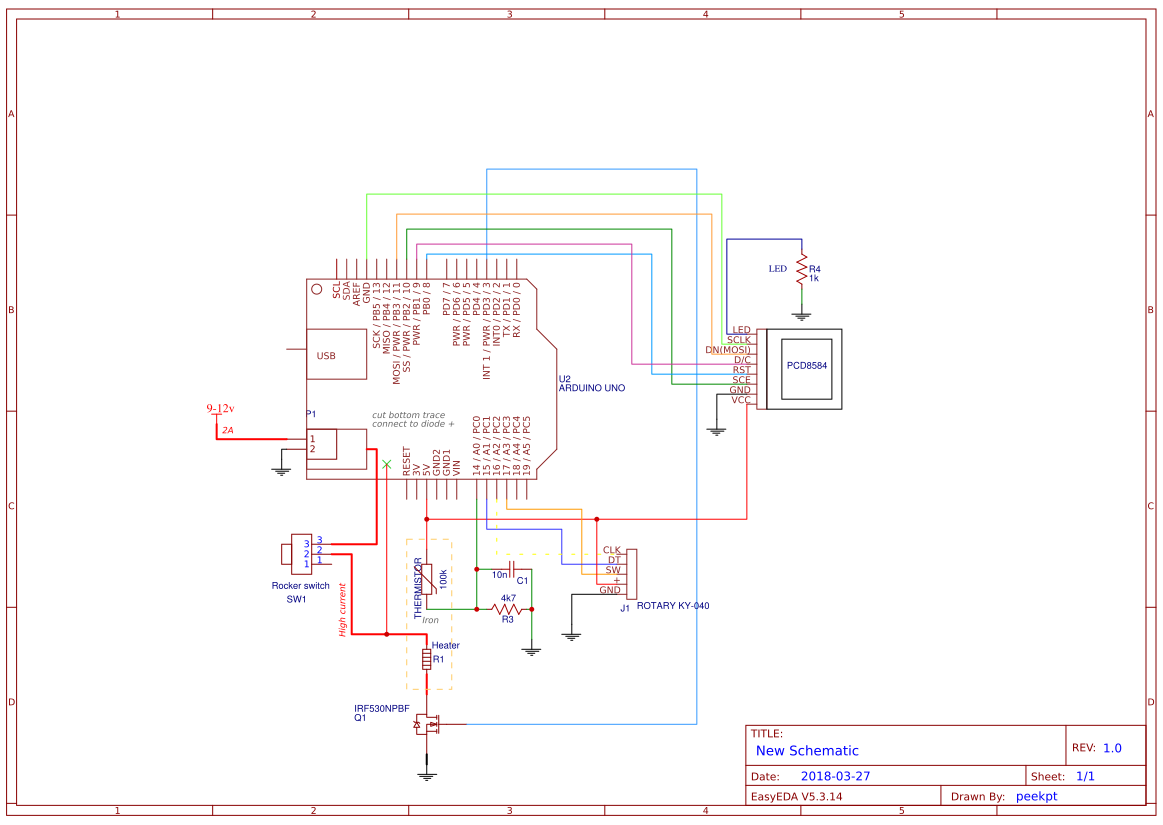
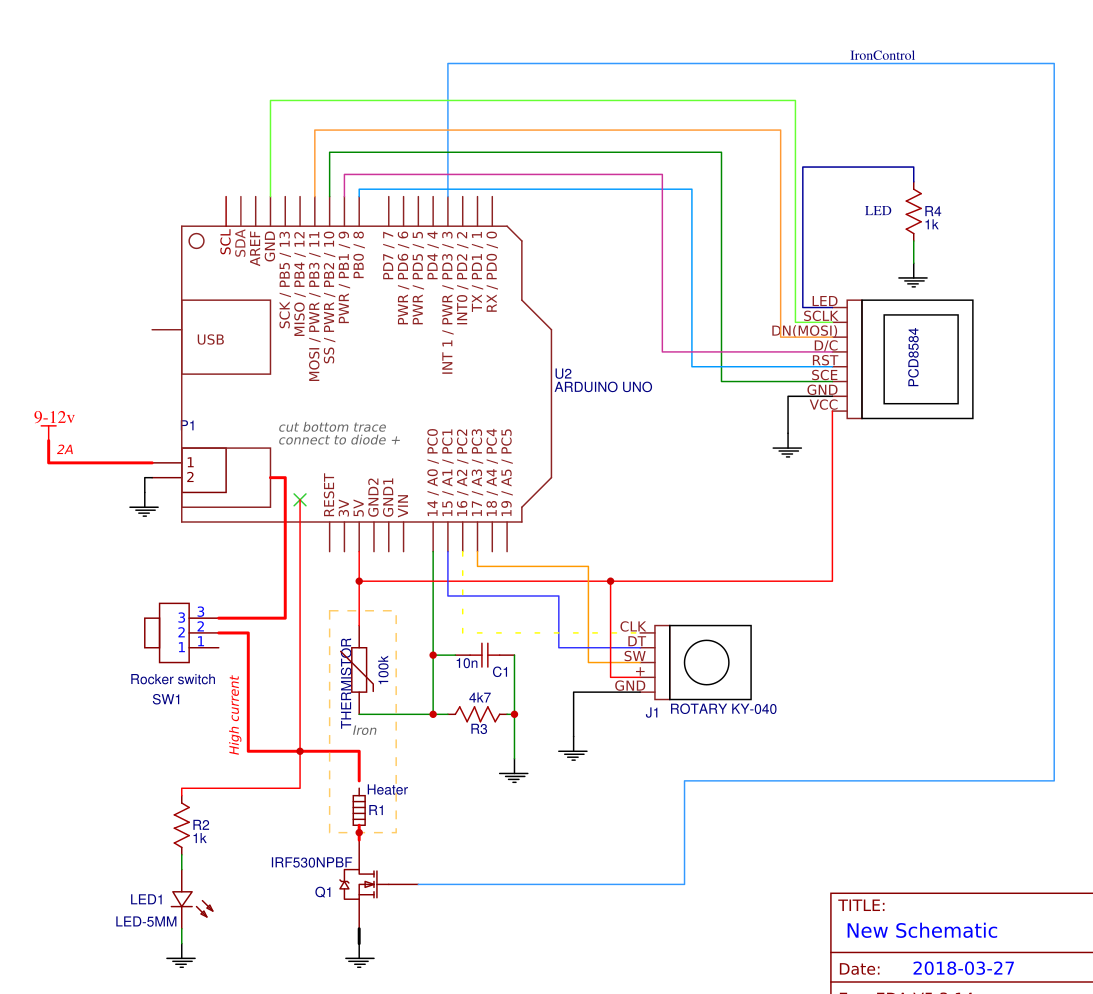
.

diff --git a/README.md b/README.md
@@ -2,6 +2,8 @@
 
 *The cheapest Micro soldering Station ever*
 
+![BOX](https://github.com/peekpt/MicroSolderingStation/blob/master/media/box.png?raw=true)
+
 ##Features
 
 - Cheap & easy build under 10$
@@ -26,6 +28,11 @@
 - 1x 10n Capacitor
 - Kapton tape 10-20mm
 - 1x N MosFet (or use the Iron's pcb one)
+- 1x rocker switch
+
+##Schematic
+
+
 
 
 
